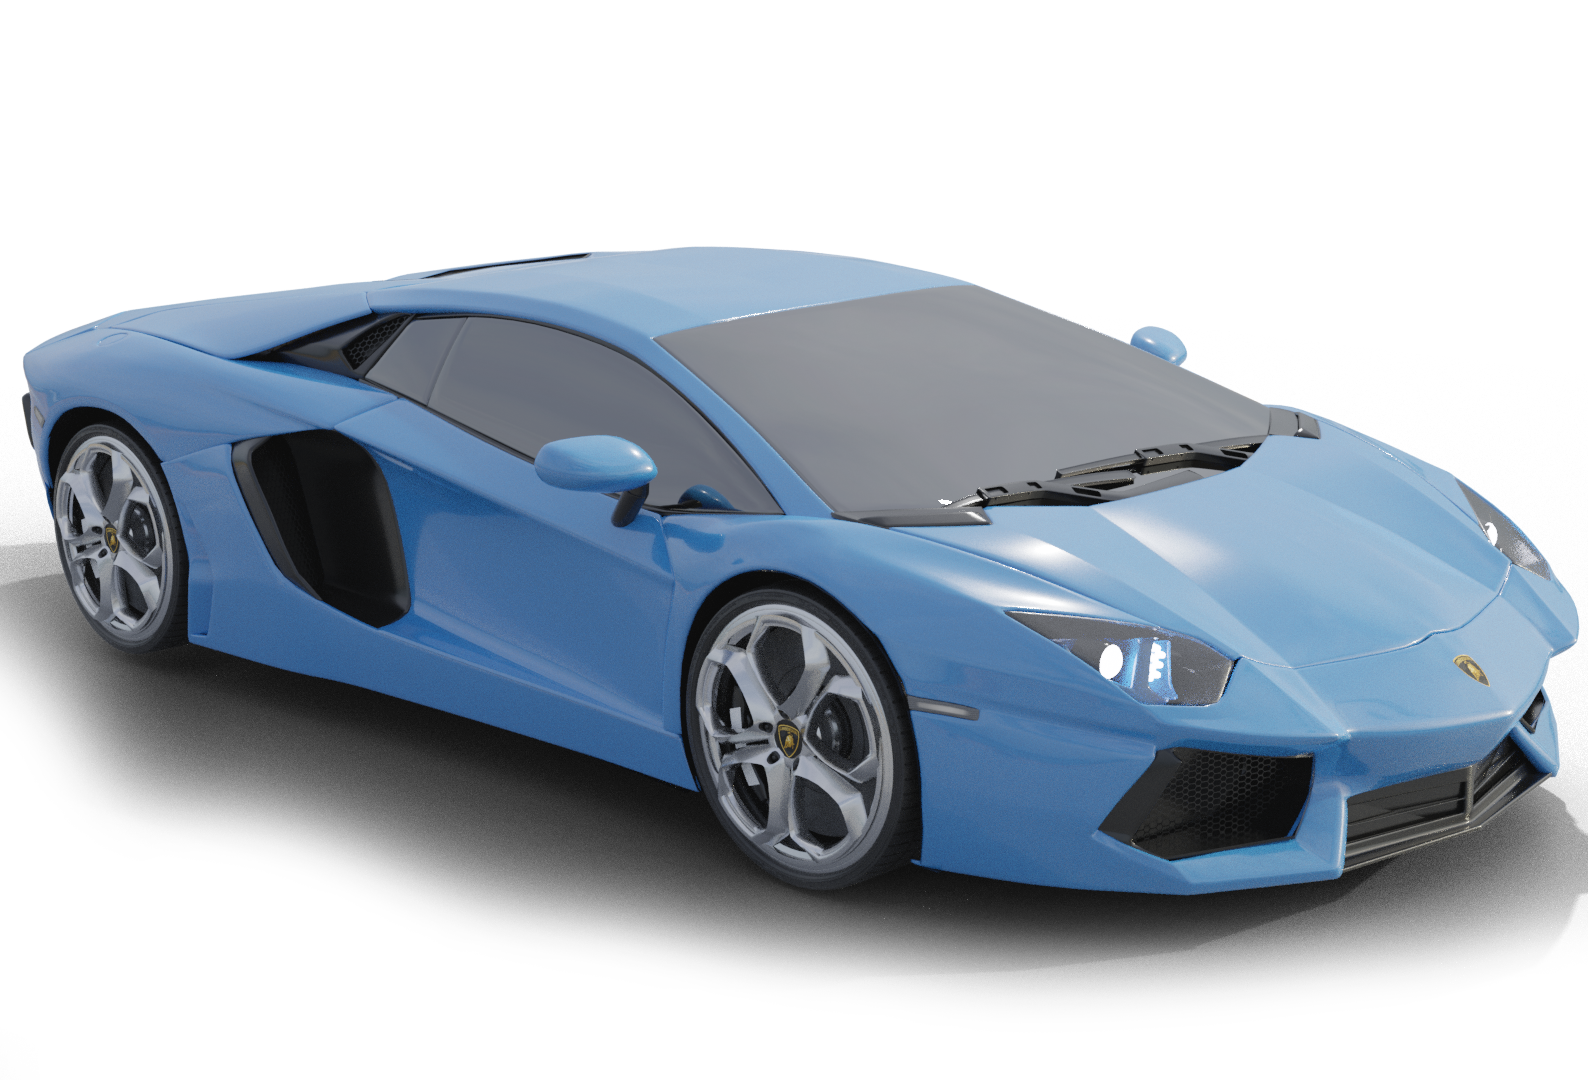
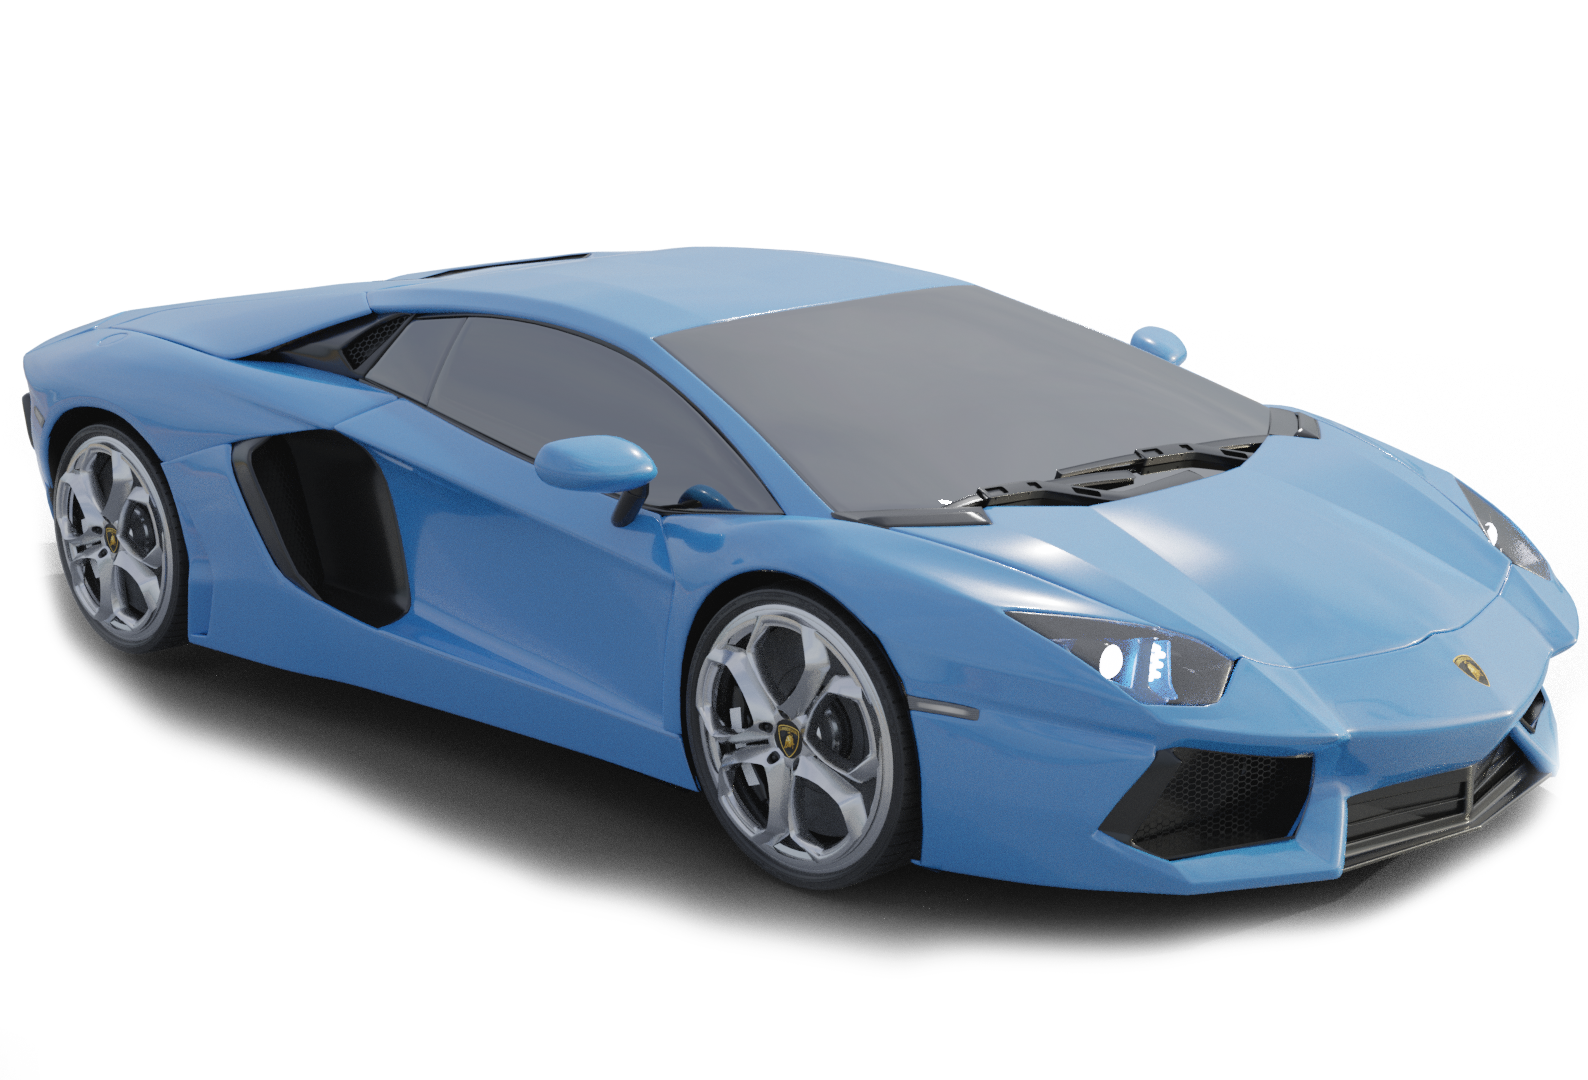
update background

Changed region(s): [[0.0, 0.4889, 1.0, 0.9167], [0.0, 0.4278, 0.0309, 0.4583]]

diff --git a/style.css b/style.css
@@ -24,9 +24,14 @@ src: url(fonts/frankfrt.ttf);
 
 body{
 
-	/* background-image: url(images/bg.jpg); */
-	background: linear-gradient(180deg, #ddf4ff, #ffffff);
+	 background-image: url(images/pexelsbg.jpg); 
+
+	/* background: linear-gradient(180deg, #ddf4ff, #ffffff); */
+	
 	background-size: cover;
+	background-attachment: fixed;
+
+	
 
 
 }
@@ -80,18 +85,23 @@ body{
 	display: flex;
 	justify-content: center;
 	flex-wrap: wrap;
+	background: linear-gradient(90deg, #d5f2ff, #adecff);
+	background-size: cover;
+	background-image: url(images/ReachMetaverse.jpg);
+	
 
 
 }
 
 .card{
- background: rgba(255, 255, 255, 0.1);
- width: 400px;
- height: 500px;
+
+ width: 20%;
+ height: auto;
  margin:30px;
- margin-top: 200px;
+ margin-top: 100px;
  border-radius: 15px;
- box-shadow: 0 4px 28px 0 rgba(5, 5, 5, 0.3);
+ background: rgba(0, 0, 0, 0.4);
+ box-shadow: 0 4px 28px 0 rgba(5, 5, 5, 0.8);
  
 
 }
@@ -104,7 +114,7 @@ body{
 	padding: 10px;
 	text-align: center;
 	font-family: mfont;
-	color: #368fb3;
+	color: #ffc628;
 }
 
 .card p{
@@ -138,17 +148,20 @@ body{
 
 
 .card-image{
-
+	
 	height:270px;
+	margin: 12px;
 	margin-bottom: 15px;
 	background-size: cover;
-	border-radius: 15px;
+	border-radius: 10px;
+	mix-blend-mode: lighten;
+
 
 }
 
 .car-1{
 
- background-image: url(images/room.png);
+ background-image: url(images/mint.jpg);
  
 
 
@@ -156,13 +169,13 @@ body{
 
 .car-2{
 
-	background-image: url(images/Vehicles.png);
+	background-image: url(images/Reach.jpg);
    
    }
 
 .car-3{
 
-	background-image: url(images/3dassets.png);
+	background-image: url(images/reachmeta.jpg);
    
 }
 
@@ -240,6 +253,7 @@ nav ul li a:hover{
 	align-items: center;
 	
 	
+	
 }
 
 .col-2{
@@ -249,6 +263,7 @@ nav ul li a:hover{
 	display: flex;
 	margin: auto;
 	justify-content: center;
+	
 	
 	
 	
@@ -343,13 +358,16 @@ button{
 	padding : 12px 10px;
 	outline: none;
 	color: #fff;
-	background: linear-gradient(to right, #99e4f1, #089ca7);
+	 background: linear-gradient(to right, #99e4f1, #089ca7); 
+	text-decoration: none;
 	border-radius: 6px;
 	cursor: pointer;
 	font-weight: bold;
 	
 	
+	
 }
+
 
 button:hover{
 	transform: scale(1.03);
@@ -362,6 +380,7 @@ button:hover{
 button img{
 	width:30px;
 	display: none;
+	
 	
 }
 

diff --git a/index.html b/index.html
@@ -31,8 +31,8 @@
 		
 		<div class="row">
 			<div class="col-1"> 
-				<h2 > 3D NFT ASSETS</h2>
-				<h3>  FOR YOUR METAVERSE</h3>
+				<h2 > LAND PLOTS</h2>
+				<h3>  BUILD EXPLORE AND OWN LAND PLOTS</h3>
 				
 				<button type="button"> Mint Now <img src="images/arrow.png"></button>
 			
@@ -40,12 +40,52 @@
 			
 			<div class="col-2 float"> 
 				<div>
-				<h2 class="land-text">land sales</h2>
+				
 				<img src="images/land.png" class="land ">
 				</div>			
 			</div>
+			
 		
 		</div> 
+
+		<div class="row">
+			<div class="col-1"> 
+				<h2 > VEHICLES</h2>
+				<h3>  CARS, SPACESHIPS AND VEHICLES FOR YOUR METAVERSE JOURNEY</h3>
+				
+				<button type="button"> Mint Now <img src="images/arrow.png"></button>
+			
+			</div>
+			
+			<div class="col-2 float"> 
+				<div>
+				
+				<img src="images/Vehicles.png" class="land ">
+				</div>			
+			</div>
+			
+		
+		</div> 
+
+		<div class="row">
+			<div class="col-1"> 
+				<h2 > 3D Assets</h2>
+				<h3>  ITEMS AND EQUIMENTS AND WEAPONS</h3>
+				
+				<button type="button"> Mint Now <img src="images/arrow.png"></button>
+			
+			</div>
+			
+			<div class="col-2 float"> 
+				<div>
+				
+				<img src="images/3dassets.png" class="land ">
+				</div>			
+			</div>
+			
+		
+		</div> 
+
 
 
 		
@@ -66,24 +106,26 @@
 	<section class="card-container">
 		<div class="card">
 			<div class="card-image car-1"></div>
-			<h2>Luxury House</h2>
-			<p>A cozy home to invite your friends and families to visit in the Metaverse</p>
-			<a href="">Mint</a>
+			<h2>Step 1</h2>
+			
+			<a href="">MINT NFT</a>
 		</div>
 
 		<div class="card">
 			<div class="card-image car-2"></div>
-			<h2>Vehicles</h2>
-			<p>Air and Land Vehicles you can can own and drive in your favorite metaverse</p>
-			<a href="">Mint</a>
+			<h2>Step 2</h2>
+			
+			<a href="">LOAD NFT</a>
 		</div>
 
 		<div class="card">
 			<div class="card-image car-3"></div>
-			<h2>3D Items</h2>
-			<p>Creatures, Decorative and interactible items and equipments.</p>
-			<a href="">Mint</a>
+			<h2>Step 3</h2>
+			
+			<a href="">ENTER METAVERSE </a>
 		</div>
+
+		
 	</section>
 
 
